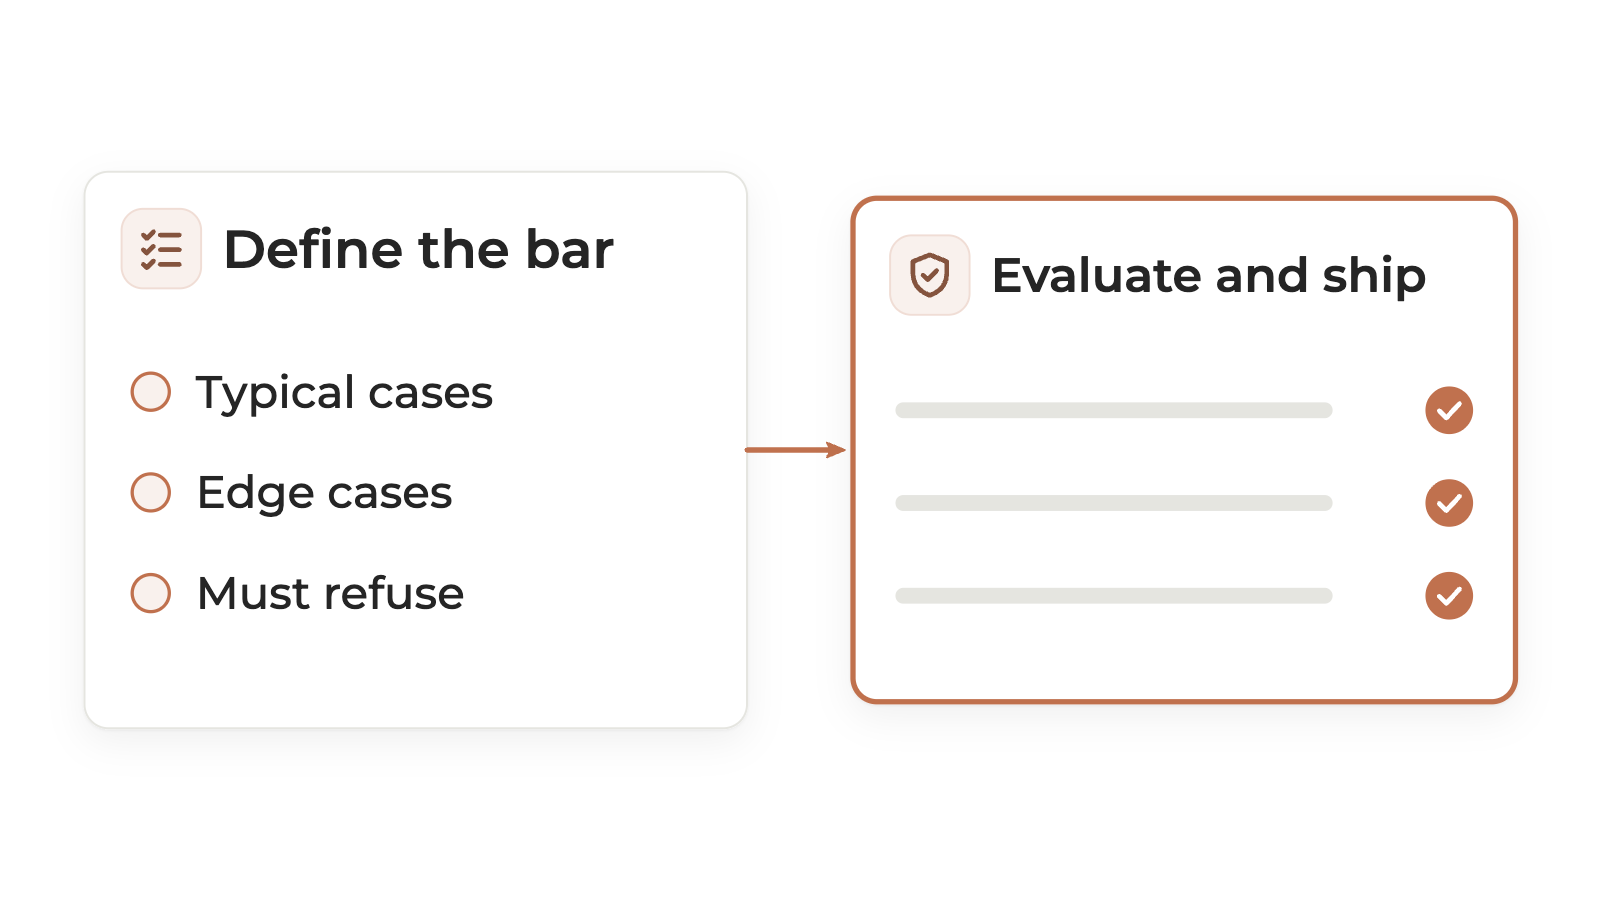
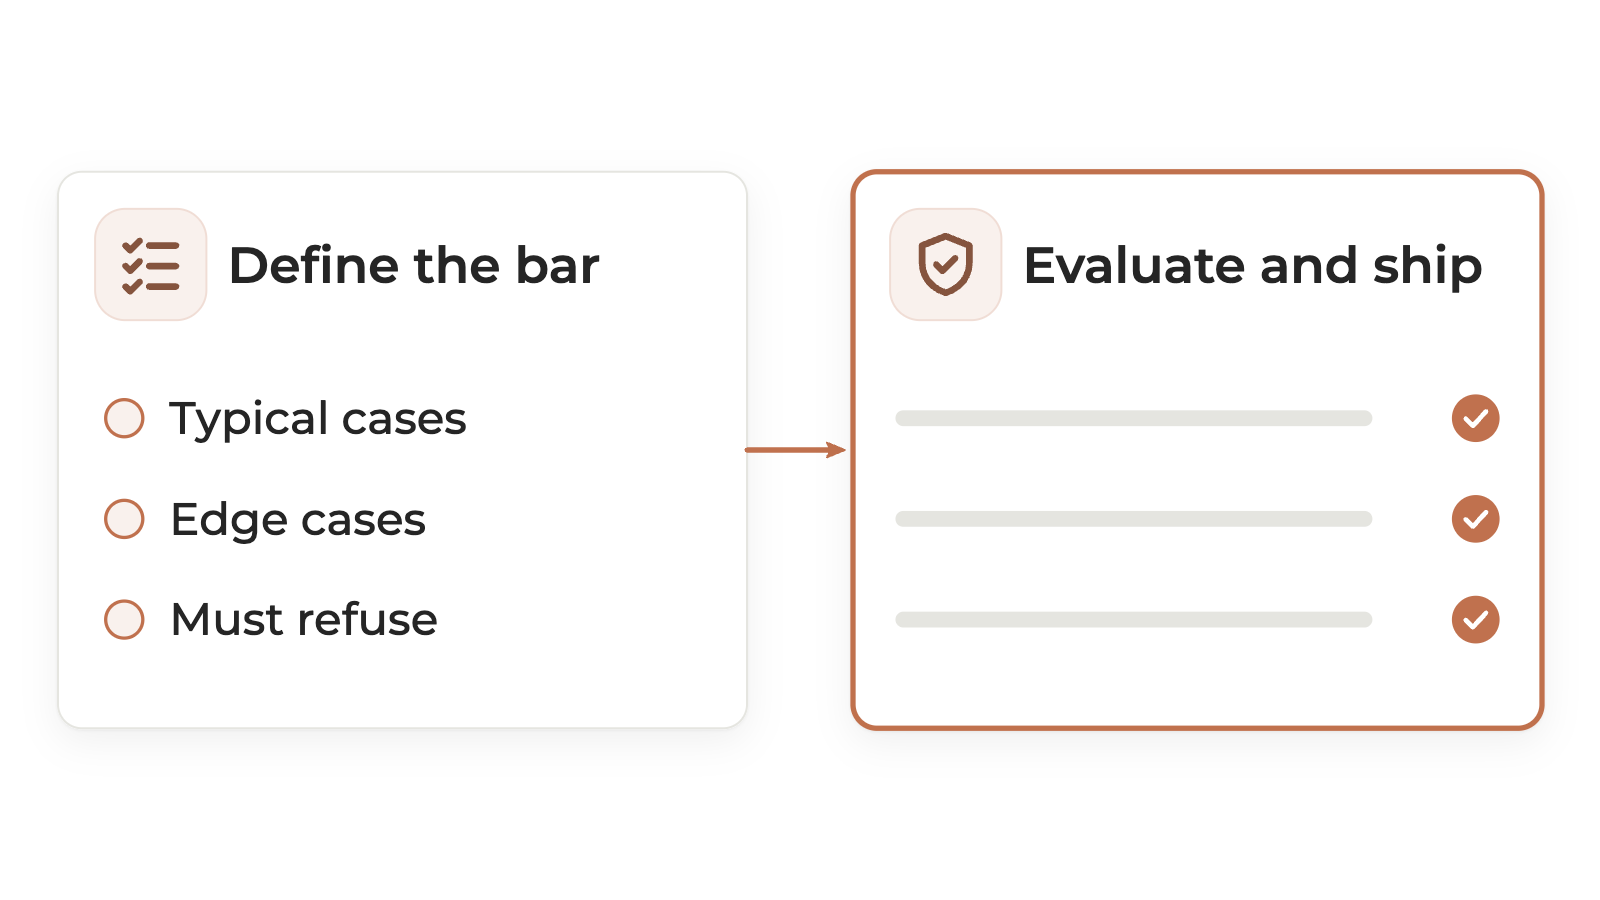
The Shift: chapter 3's two cards share a height, a heading size, and larger tiles
Both cards are 520x420 on one top line, both heads set at 38 with the
84 tile the flow chapter pictures use, and the checked lines sit on the
rows of the list. Cache-buster ?v=3 -> ?v=4 on the two pages that show it.

diff --git a/writing/index.html b/writing/index.html
@@ -272,7 +272,7 @@
           <ol class="shift-mosaic" aria-label="The four chapters">
             <li class="shift-ch-1"><a href="#chapter-1"><img src="../img/writing/shift/product-systems/chapters/chapter-1.png?v=3" width="1600" height="900" alt="" decoding="async" /><span class="shift-mosaic-label">1 &middot; The job</span></a></li>
             <li class="shift-ch-2"><a href="#chapter-2"><img src="../img/writing/shift/product-systems/chapters/chapter-2.png?v=3" width="1600" height="900" alt="" decoding="async" /><span class="shift-mosaic-label">2 &middot; The agent</span></a></li>
-            <li class="shift-ch-3"><a href="#chapter-3"><img src="../img/writing/shift/product-systems/chapters/chapter-3.png?v=3" width="1600" height="900" alt="" decoding="async" /><span class="shift-mosaic-label">3 &middot; The product</span></a></li>
+            <li class="shift-ch-3"><a href="#chapter-3"><img src="../img/writing/shift/product-systems/chapters/chapter-3.png?v=4" width="1600" height="900" alt="" decoding="async" /><span class="shift-mosaic-label">3 &middot; The product</span></a></li>
             <li class="shift-ch-4"><a href="#chapter-4"><img src="../img/writing/shift/product-systems/chapters/chapter-4.png?v=3" width="1600" height="900" alt="" decoding="async" /><span class="shift-mosaic-label">4 &middot; The practice</span></a></li>
           </ol>
         </div>
@@ -309,7 +309,7 @@
           <li class="shift-chapter shift-ch-3" id="chapter-3">
             <h2 class="shift-chapter-label"><span class="shift-chapter-num">Chapter 3</span> Designing the product</h2>
             <div class="shift-chapter-head">
-              <img class="shift-chapter-art" src="../img/writing/shift/product-systems/chapters/chapter-3.png?v=3" width="1600" height="900" alt="A card listing typical cases, edge cases, and must refuse leads to a card marked Evaluate and ship, each line checked." loading="lazy" decoding="async" />
+              <img class="shift-chapter-art" src="../img/writing/shift/product-systems/chapters/chapter-3.png?v=4" width="1600" height="900" alt="A card listing typical cases, edge cases, and must refuse leads to a card marked Evaluate and ship, each line checked." loading="lazy" decoding="async" />
               <p class="shift-chapter-dek">Requirements, sprints, and answers that make a decision clearer.</p>
             </div>
             <ol class="shift-cards">

diff --git a/index.html b/index.html
@@ -1422,7 +1422,7 @@
           <ol class="shift-mosaic reveal" aria-label="The four chapters">
             <li class="shift-ch-1"><a href="writing/index.html#chapter-1"><img src="img/writing/shift/product-systems/chapters/chapter-1.png?v=3" width="1600" height="900" alt="" loading="lazy" decoding="async" /><span class="shift-mosaic-label">1 &middot; The job</span></a></li>
             <li class="shift-ch-2"><a href="writing/index.html#chapter-2"><img src="img/writing/shift/product-systems/chapters/chapter-2.png?v=3" width="1600" height="900" alt="" loading="lazy" decoding="async" /><span class="shift-mosaic-label">2 &middot; The agent</span></a></li>
-            <li class="shift-ch-3"><a href="writing/index.html#chapter-3"><img src="img/writing/shift/product-systems/chapters/chapter-3.png?v=3" width="1600" height="900" alt="" loading="lazy" decoding="async" /><span class="shift-mosaic-label">3 &middot; The product</span></a></li>
+            <li class="shift-ch-3"><a href="writing/index.html#chapter-3"><img src="img/writing/shift/product-systems/chapters/chapter-3.png?v=4" width="1600" height="900" alt="" loading="lazy" decoding="async" /><span class="shift-mosaic-label">3 &middot; The product</span></a></li>
             <li class="shift-ch-4"><a href="writing/index.html#chapter-4"><img src="img/writing/shift/product-systems/chapters/chapter-4.png?v=3" width="1600" height="900" alt="" loading="lazy" decoding="async" /><span class="shift-mosaic-label">4 &middot; The practice</span></a></li>
           </ol>
         </div>

diff --git a/writing/PRODUCT_SYSTEMS_MANIFEST.md b/writing/PRODUCT_SYSTEMS_MANIFEST.md
@@ -28,7 +28,7 @@ for the share pictures, chapter-engraving) original.
 | hero:12 | `narrative-ink/chapter-4/chapter4-lesson12-hero.webp` | `heroes/lesson-12.png` | 1600x702, 91.5 KB | 2 |
 | chapter:1 | `narrative-ink/emblems/chapter1-emblem.webp` | `chapters/chapter-1.png` | 1600x900, 48.8 KB | 2 |
 | chapter:2 | `narrative-ink/emblems/chapter2-emblem.webp` | `chapters/chapter-2.png` | 1600x900, 52.3 KB | 2 |
-| chapter:3 | `narrative-ink/emblems/chapter3-emblem.webp` | `chapters/chapter-3.png` | 1600x900, 60.6 KB | 2 |
+| chapter:3 | `narrative-ink/emblems/chapter3-emblem.webp` | `chapters/chapter-3.png` | 1600x900, 56.5 KB | 2 |
 | chapter:4 | `narrative-ink/emblems/chapter4-emblem.webp` | `chapters/chapter-4.png` | 1600x900, 50.5 KB | 2 |
 | icon:ch1-plan | `narrative-ink/chapter-1/chapter1-icon-map.webp` | `icons/ch1-plan.svg` | 64x64, 0.5 KB | 1 |
 | icon:ch1-design | `narrative-ink/chapter-1/chapter1-icon-pencil.webp` | `icons/ch1-design.svg` | 64x64, 0.4 KB | 1 |
@@ -103,11 +103,11 @@ for the share pictures, chapter-engraving) original.
 | --- | --- | --- | --- |
 | shift-mosaic | `chapters/chapter-1.png` ?v=3 | 1600x900 | `""` |
 | shift-mosaic | `chapters/chapter-2.png` ?v=3 | 1600x900 | `""` |
-| shift-mosaic | `chapters/chapter-3.png` ?v=3 | 1600x900 | `""` |
+| shift-mosaic | `chapters/chapter-3.png` ?v=4 | 1600x900 | `""` |
 | shift-mosaic | `chapters/chapter-4.png` ?v=3 | 1600x900 | `""` |
 | shift-chapter-art | `chapters/chapter-1.png` ?v=3 | 1600x900 | Three cards in a row: Context leads to Task, and Task to Decision. |
 | shift-chapter-art | `chapters/chapter-2.png` ?v=3 | 1600x900 | Four cards in a row: Know, Act, Check, and Stop. |
-| shift-chapter-art | `chapters/chapter-3.png` ?v=3 | 1600x900 | A card listing typical cases, edge cases, and must refuse leads to a card marked Evaluate and ship, each line checked. |
+| shift-chapter-art | `chapters/chapter-3.png` ?v=4 | 1600x900 | A card listing typical cases, edge cases, and must refuse leads to a card marked Evaluate and ship, each line checked. |
 | shift-chapter-art | `chapters/chapter-4.png` ?v=3 | 1600x900 | Three cards in a row: Research, Onboarding, and Redesign. |
 
 ### Lesson 1: what-changes-when-you-design-the-task-instead-of-the-app.html
